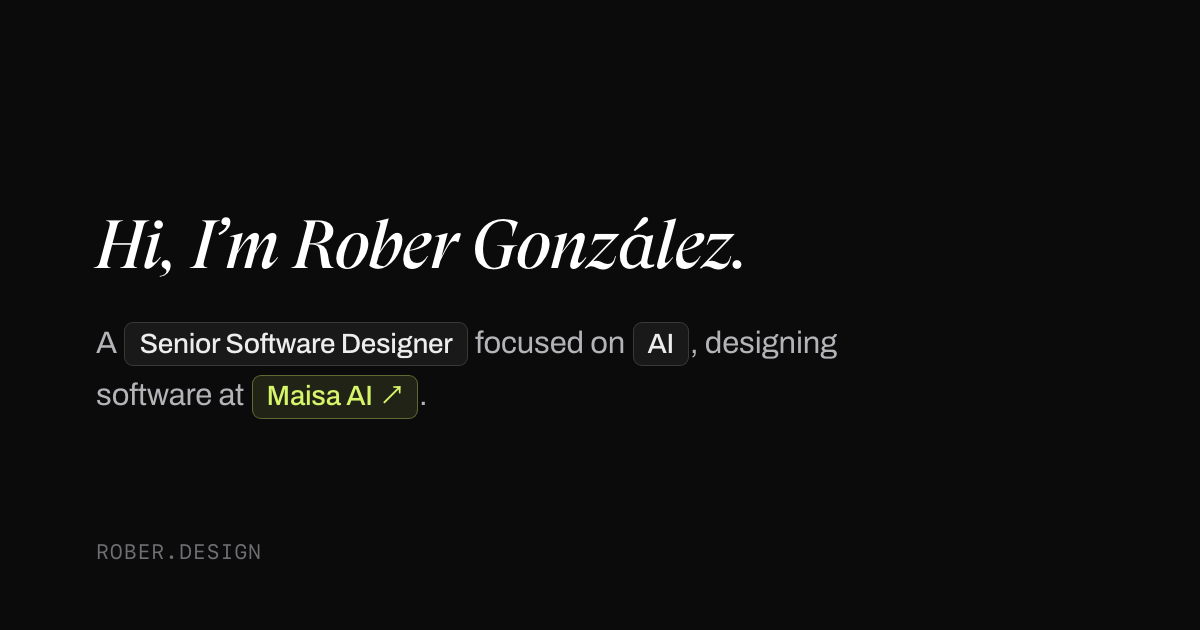
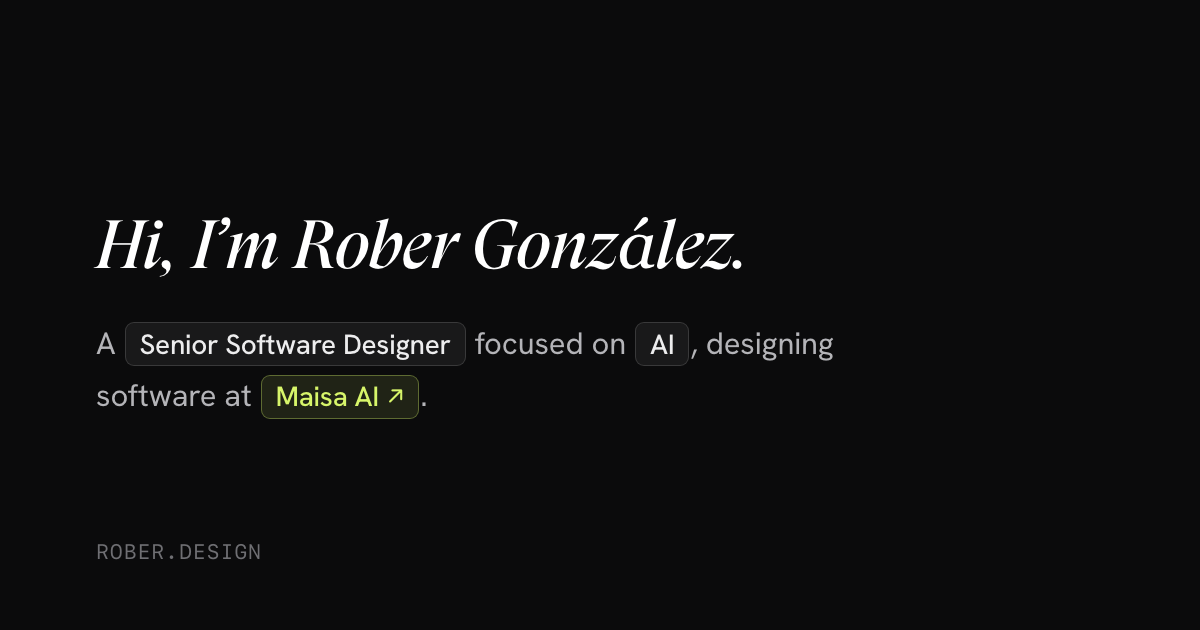
Switch body type to Hanken Grotesk; tighten English copy
- Replace Archivo with the more humanist Hanken Grotesk (real italics)
- Companies and clients now render in italic rather than badges
- Rework copy to read as native English (Oxford commas, natural phrasing)
- Extend the "human generated em dash" tooltip to every em dash
- Regenerate the OG image with the new typeface

Changed region(s): [[0.0617, 0.5127, 0.7092, 0.573], [0.0617, 0.6032, 0.3392, 0.6635]]

diff --git a/index.html b/index.html
@@ -70,8 +70,8 @@
 
   <link rel="preconnect" href="https://fonts.googleapis.com" />
   <link rel="preconnect" href="https://fonts.gstatic.com" crossorigin />
-  <link rel="stylesheet" href="https://fonts.googleapis.com/css2?family=Archivo:wght@400;500;700;900&display=swap" media="print" onload="this.media='all'" />
-  <noscript><link rel="stylesheet" href="https://fonts.googleapis.com/css2?family=Archivo:wght@400;500;700;900&display=swap" /></noscript>
+  <link rel="stylesheet" href="https://fonts.googleapis.com/css2?family=Hanken+Grotesk:ital,wght@0,400;0,500;0,600;0,700;1,400;1,500&display=swap" media="print" onload="this.media='all'" />
+  <noscript><link rel="stylesheet" href="https://fonts.googleapis.com/css2?family=Hanken+Grotesk:ital,wght@0,400;0,500;0,600;0,700;1,400;1,500&display=swap" /></noscript>
 
   <!-- Phosphor Icons — used for the live weather glyph -->
   <link rel="stylesheet" href="https://unpkg.com/@phosphor-icons/web@2.1.1/src/regular/style.css" media="print" onload="this.media='all'" />
@@ -89,7 +89,7 @@
       --dim: #75757a;
       --chip: rgba(255,255,255,.055);
       --chip-border: rgba(255,255,255,.13);
-      --font: 'Archivo', Helvetica, Arial, sans-serif;
+      --font: 'Hanken Grotesk', system-ui, -apple-system, Helvetica, Arial, sans-serif;
       --serif: 'GT Super', Georgia, 'Times New Roman', serif;
     }
 
@@ -130,6 +130,9 @@
 
     p { margin-bottom: 1.5em; max-width: 56ch; }
     p:last-child { margin-bottom: 0; }
+
+    /* companies & clients — italic emphasis instead of badges */
+    .co { font-style: italic; color: var(--fg); }
 
     .tz {
       margin-top: clamp(30px, 5vw, 54px);
@@ -230,16 +233,16 @@
 
     <p>A <span class="badge">Senior Software Designer</span> focused on <span class="badge">AI</span>, based in <span class="badge">Spain</span> <span class="emdash" tabindex="0" role="note" aria-label="Human generated em dash" data-tip="Human generated em dash">&mdash;</span> working remotely.</p>
 
-    <p>Right now I design AI software at <a class="badge badge-link lk-maisa" href="https://maisa.ai" target="_blank" rel="noopener noreferrer">Maisa&nbsp;AI<span class="arw">↗</span></a>, shaping how people interact with and trust AI agents.</p>
+    <p>These days I&rsquo;m designing AI software at <a class="badge badge-link lk-maisa" href="https://maisa.ai" target="_blank" rel="noopener noreferrer">Maisa&nbsp;AI<span class="arw">↗</span></a>, shaping how people interact with AI and create Digital Workers.</p>
 
-    <p>15+ years across startups like <span class="badge">Fresh&nbsp;People</span>, agencies like <span class="badge">Populate</span> and enterprise at <span class="badge">NTT&nbsp;Data</span>, with clients like <span class="badge">Santander</span>, <span class="badge">IAG</span>, <span class="badge">Acciona</span> or <span class="badge">Airbus</span>.</p>
+    <p>15+ years across startups like <em class="co">Fresh&nbsp;People</em>, agencies like <em class="co">Populate</em>, and enterprise at <em class="co">NTT&nbsp;Data</em> <span class="emdash" tabindex="0" role="note" aria-label="Human generated em dash" data-tip="Human generated em dash">&mdash;</span> for clients like <em class="co">Santander</em>, <em class="co">IAG</em>, <em class="co">Acciona</em>, and <em class="co">Airbus</em>.</p>
 
-    <p>I specialize in <span class="badge">AI Product Design</span>, <span class="badge">Web Design</span> and <span class="badge">Enterprise-focused Software</span> from user research to frontend code: whatever gets the prototype closer to production.</p>
+    <p>I work across <span class="badge">AI Product Design</span>, <span class="badge">Web Design</span>, and <span class="badge">Enterprise-focused Software</span> <span class="emdash" tabindex="0" role="note" aria-label="Human generated em dash" data-tip="Human generated em dash">&mdash;</span> from user research to frontend code, whatever it takes to move a prototype closer to production.</p>
 
-    <p>Find me on <a class="badge badge-link lk-linkedin" href="https://www.linkedin.com/in/robergd/" target="_blank" rel="noopener noreferrer">LinkedIn<span class="arw">↗</span></a> or say hello over <a class="badge badge-link lk-email" href="mailto:hi@rober.design">Email<span class="arw">↗</span></a>. My <a class="badge badge-link lk-cv" href="/cv">CV<span class="arw">↗</span></a> is a click away.</p>
+    <p>Find me on <a class="badge badge-link lk-linkedin" href="https://www.linkedin.com/in/robergd/" target="_blank" rel="noopener noreferrer">LinkedIn<span class="arw">↗</span></a> or reach out over <a class="badge badge-link lk-email" href="mailto:hi@rober.design">Email<span class="arw">↗</span></a>. My <a class="badge badge-link lk-cv" href="/cv">CV<span class="arw">↗</span></a> is a click away.</p>
 
     <!-- <p class="tz">Based in Spain, working remotely.</p> -->
-    <p class="tz">Right now it&rsquo;s <span class="badge clock" id="clock">--:--:--</span><span id="wx-wrap">, <span class="badge weather" id="weather">&hellip;</span></span> here.</p>
+    <p class="tz">Right now it&rsquo;s <span class="badge clock" id="clock">--:--:--</span><span id="wx-wrap"> and <span class="badge weather" id="weather">&hellip;</span></span> here.</p>
   </main>
 
   <script>
